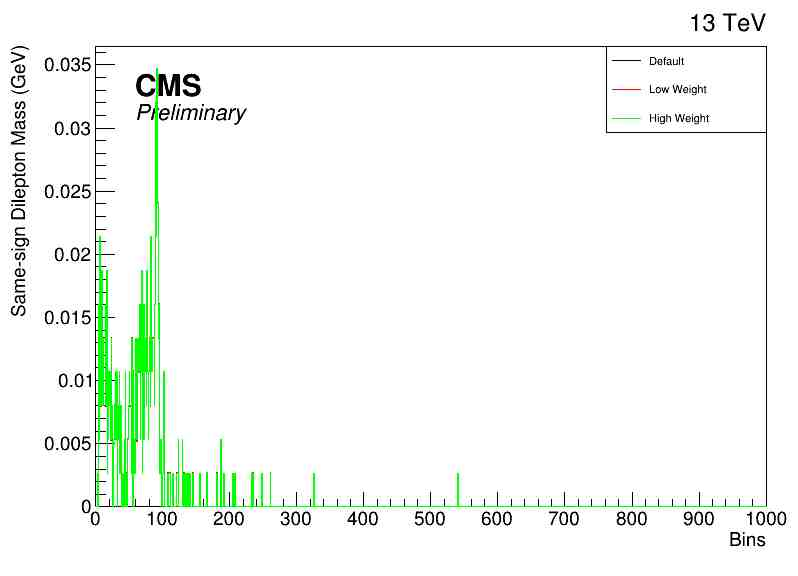
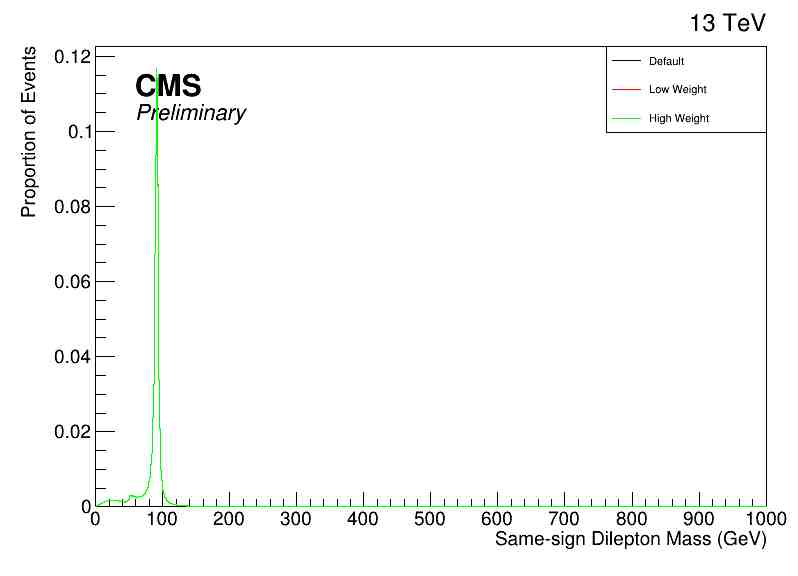
Pushing PdfAnalysis Changes

diff --git a/Analysis/src/PlotFormatter.cc b/Analysis/src/PlotFormatter.cc
@@ -329,7 +329,7 @@ TCanvas* PlotFormatter::simpleSuperImposedHist(std::vector<TH1*> hists, std::vec
     for(TH1* hist : hists) {
         hist->Rebin(hist->GetNbinsX() / commonFactor);
     }
-
+   
     double maxBinWidth = hists.at(0)->GetXaxis()->GetBinWidth(0);
 
     for(TH1* hist : hists) {
@@ -337,9 +337,11 @@ TCanvas* PlotFormatter::simpleSuperImposedHist(std::vector<TH1*> hists, std::vec
             maxBinWidth = hist->GetXaxis()->GetBinWidth(0);
         }
     }
+
     for(TH1* hist : hists) {
         hist->Rebin((int) (maxBinWidth / hist->GetXaxis()->GetBinWidth(0)));
     }     
+
 
     for(TH1* hist : hists) {
 	    if(hist->Integral() != 0 && !isnan(hist->Integral())) {
@@ -354,6 +356,7 @@ TCanvas* PlotFormatter::simpleSuperImposedHist(std::vector<TH1*> hists, std::vec
         }
 	    count++;
     }
+    
 
     int lowValue = maximum;
     for(TH1* hist : hists) {
@@ -361,6 +364,7 @@ TCanvas* PlotFormatter::simpleSuperImposedHist(std::vector<TH1*> hists, std::vec
             lowValue = hist->GetMinimum();
         }
     }
+
 
     //Setting size and margins
     int width = 800;
@@ -372,6 +376,7 @@ TCanvas* PlotFormatter::simpleSuperImposedHist(std::vector<TH1*> hists, std::vec
     float right = 0.04*width;
 
     TCanvas* canvas = makeFormat(width, height, top, bottom, left, right);
+    
 
     gStyle->SetOptStat(0);
 
@@ -379,6 +384,7 @@ TCanvas* PlotFormatter::simpleSuperImposedHist(std::vector<TH1*> hists, std::vec
     first->SetMinimum(lowValue);
     first->Draw("HIST");
     histVector.push_back(first);
+
 
     //Change axis and graph titles here
     first->GetXaxis()->SetTitle(xAxisTitle);
@@ -398,6 +404,7 @@ TCanvas* PlotFormatter::simpleSuperImposedHist(std::vector<TH1*> hists, std::vec
         count++;
     }
     legend->Draw();
+
  
     writeText(width, height, top, bottom, left, right);
    

diff --git a/Analysis/bin/SuperImpose.C b/Analysis/bin/SuperImpose.C
@@ -24,7 +24,7 @@ void SuperImpose() {
     const std::string filePath = "/uscms/home/sdulam/analysis/CMSSW_12_4_3/src/CMSAnalysis/";
 
     //Pick source files for histograms here
-    std::vector<std::string> files = {"testpdfbackground.root"};
+    std::vector<std::string> files = {"pdfdybackground.root"}; 
 
     //Write the remaining file paths and graphs here. The hist in index 0 of the hists vector gets pulled from the file at index 0 in files, and so on.
     std::vector<std::string> hists = {"DefaultHistogram", "LowHistogram", "HighHistogram"};
@@ -36,7 +36,7 @@ void SuperImpose() {
     std::vector<int> colors = {1, 2, 3, 4, 5};
     //Change x and y axis titles here
     TString xTitle = "Same-sign Dilepton Mass (GeV)";
-    TString yTitle = "Weights";
+    TString yTitle = "Proportion of Events";
 
 
     int count = 0;

diff --git a/Modules/src/PdfAnalysisModule.cc b/Modules/src/PdfAnalysisModule.cc
@@ -3,8 +3,7 @@
 #include <iostream>
 
 
-PdfAnalysisModule::PdfAnalysisModule(int low, int high, int histBins) :
-  HistogramOutputModule()
+PdfAnalysisModule::PdfAnalysisModule(int low, int high, int histBins) : HistogramOutputModule()
 {
   this->low = low;
   this->high = high;
@@ -126,8 +125,7 @@ bool PdfAnalysisModule::process()
     //std::cout << "No Reco Particles" << std::endl;
     return true;
   }
-  auto recoInvMass = recoParticles.getInvariantMass();
-  defHist->Fill(recoInvMass, 1.0);
+  
   auto& particle = recoParticles[0];
   //No idea how to get particle info
   for(int i = 0; i < 100; ++i)
